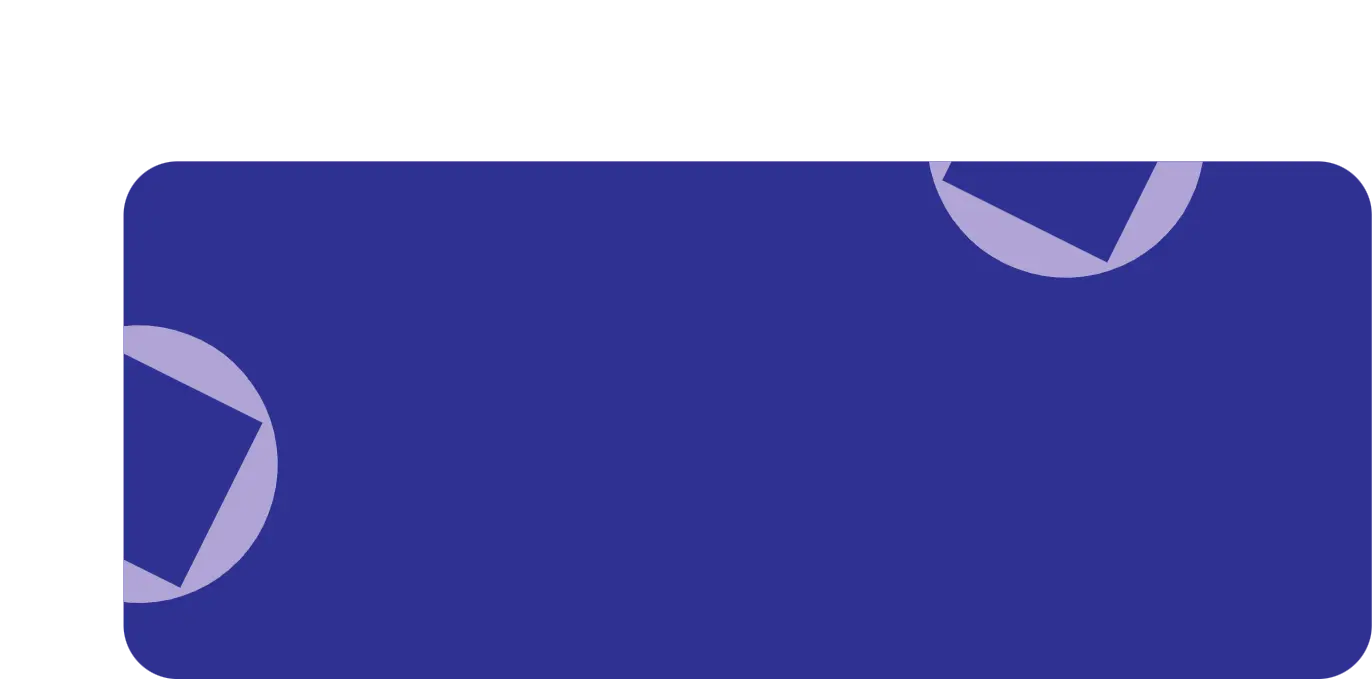
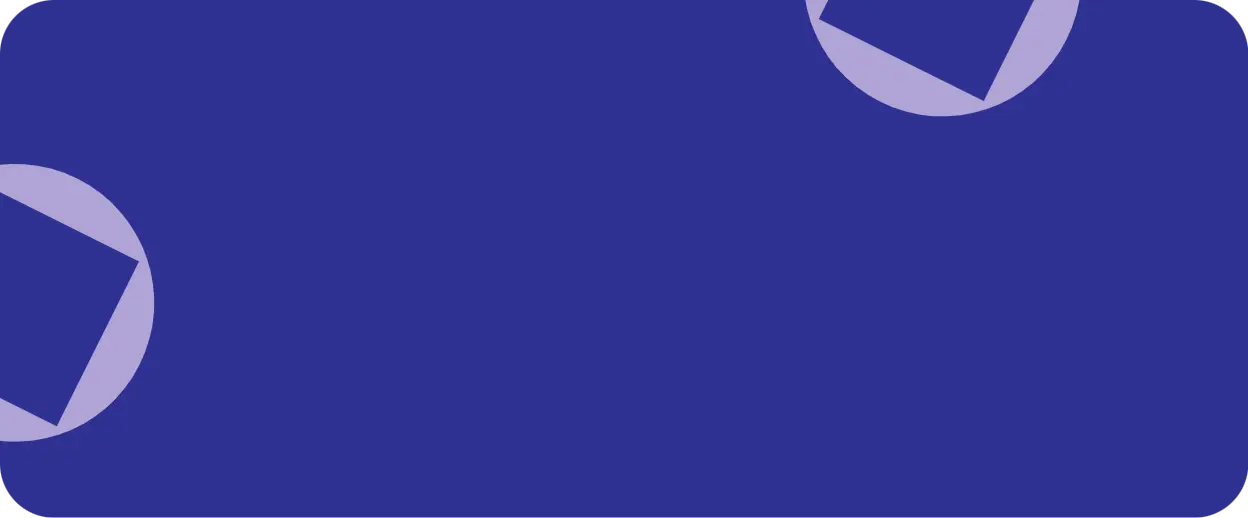
mejoras en el css de las paginas internas

diff --git a/src/Assets/css/redes-modal.css b/src/Assets/css/redes-modal.css
@@ -61,7 +61,7 @@
 
 @media screen and (min-width: 768px) and (max-width: 1024px) {
     .redes-Modal {
-        background-image: url(../statics/FondosMagnoliaMobile/RedesSociales.webp);
+        background-image: url(../statics/FondosMagnoliaPc/RedesSociales.webp);
         background-size: cover;
         background-position: center;
         background-repeat: no-repeat;
@@ -86,6 +86,10 @@
         display: grid;
         grid-template-columns: 1fr;
         grid-template-rows: 10% 20% 20% 50%;
+        background-image: url(../statics/FondosMagnoliaPc/RedesSociales.webp);
+        background-size: cover;
+        background-position: center;
+        background-repeat: no-repeat;
         border-radius: 30px;
         padding: 20px 10px;
         gap: 0;

diff --git a/src/Assets/css/trabajo-modal.css b/src/Assets/css/trabajo-modal.css
@@ -126,12 +126,10 @@
 @media screen and (min-width: 1024px) and (max-width: 1440px) {
     .trabajo-Modal {
         grid-template-rows: 10% 10% 10% 1% 69%;
-        /* background-image: url(../statics/FondosMagnoliaPc/Contacto_D.webp);
+        background-image: url(../statics/FondosMagnoliaPc/Trabajos_D.webp);
         background-size: cover;
         background-position: top;
-        background-repeat: no-repeat; */
-        background-image: none;
-        background-color: #fcbf02;
+        background-repeat: no-repeat;
         padding-left: 30px;
         padding-right: 30px;
     }

diff --git a/src/Assets/css/somos-magnolia-modal.css b/src/Assets/css/somos-magnolia-modal.css
@@ -10,7 +10,7 @@
     background-repeat: no-repeat;
     width: 100%;
     height: 90%;
-    border-radius: 15px;
+    border-radius: 30px;
     gap: 10px;
 }
 
@@ -74,7 +74,7 @@
 
 @media screen and (min-width: 1024px) and (max-width: 1440px) {
     .somos-magnolia-modal {
-        background-image: url(../statics/FondosMagnoliaPc/Contacto_D.webp);
+        background-image: url(../statics/FondosMagnoliaPc/SomosMagnolia_D.webp);
         background-size: cover;
         background-position: center;
         background-repeat: no-repeat;

diff --git a/src/Assets/css/productora-modal.css b/src/Assets/css/productora-modal.css
@@ -11,7 +11,7 @@
     background-repeat: no-repeat;
     width: 100%;
     height: 90%;
-    border-radius: 15px;
+    border-radius: 30px;
     gap: 10px;
     padding: 10px 10px 0 10px;
 }

diff --git a/src/Assets/css/contacto-modal.css b/src/Assets/css/contacto-modal.css
@@ -12,7 +12,6 @@
     height: 90%;
     border-radius: 20px;
     gap: 10px;
-    padding-bottom: 15px;
 
 }
 
